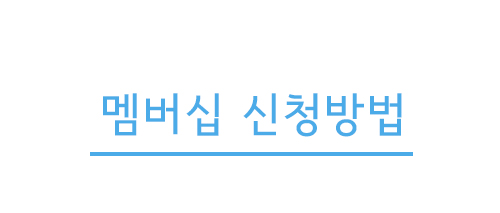
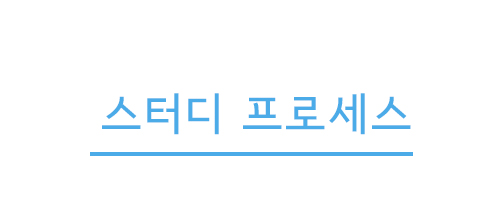
*18년 6월 1일 1

Changed region(s): [[0.48, 0.4225, 0.84, 0.6479], [0.18, 0.4225, 0.45, 0.6479]]

diff --git a/routes/study.js b/routes/study.js
@@ -52,6 +52,10 @@ router.get('/study/memship', function(req, res, next) {
 	res.render('front/cid_study/std_memship', { });
 });
 
+router.get('/study/process', function(req, res, next) {
+	res.render('front/cid_study/std_process', { });
+});
+
 
 router.get('/study/list', function(req, res, next) {
 	var stdlist;
